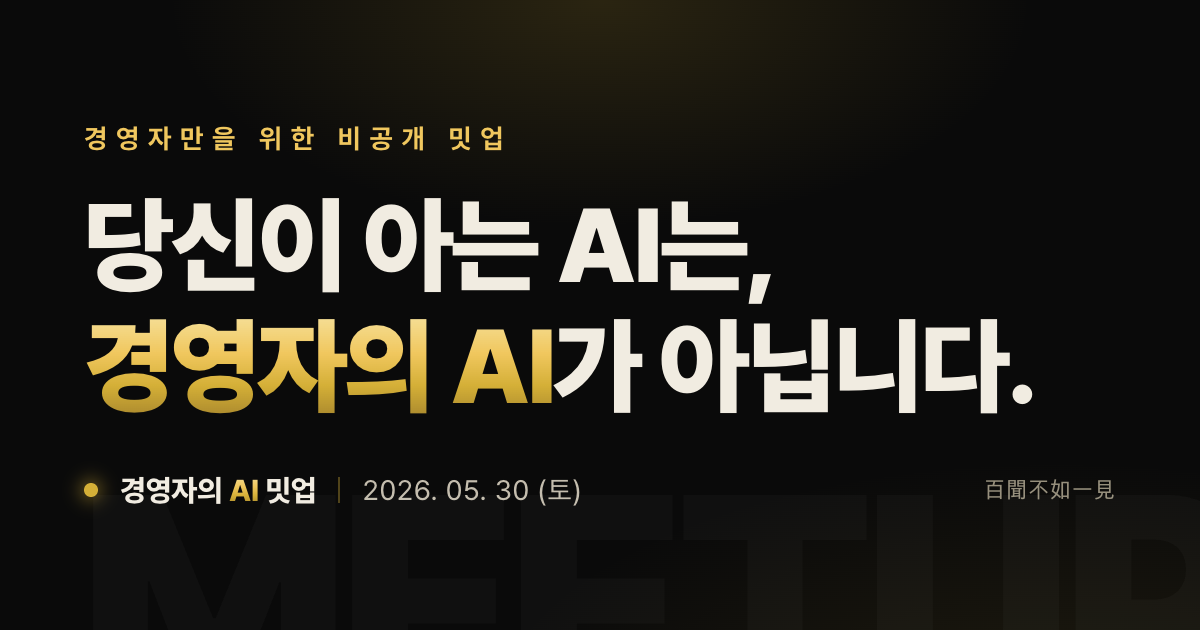
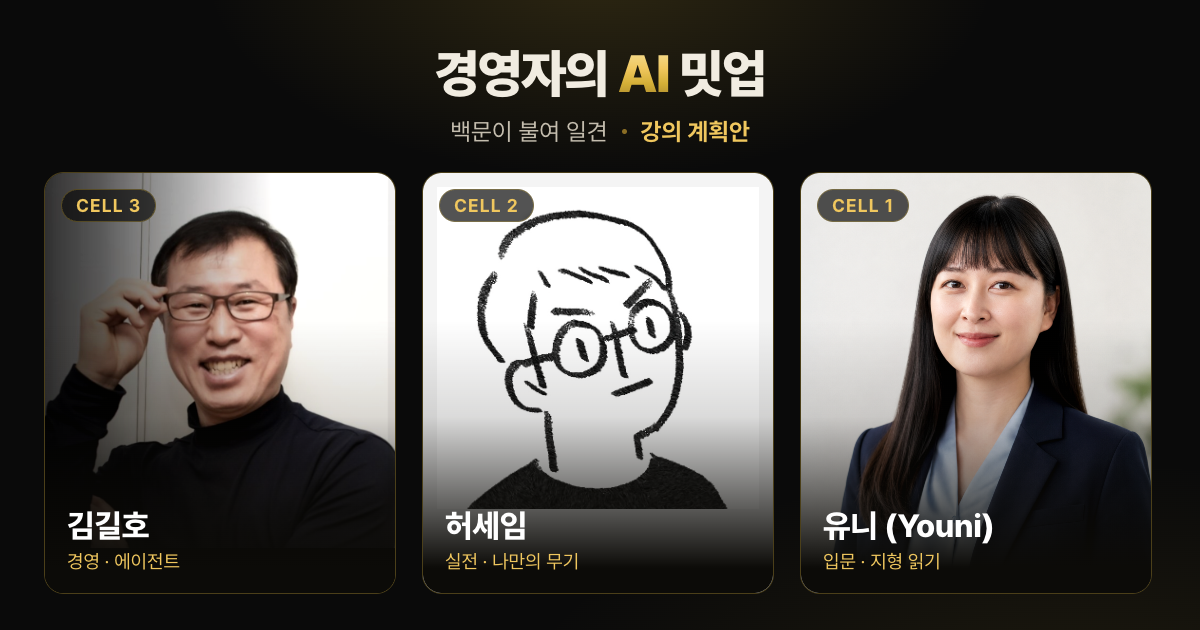
OG 썸네일을 강사 3인 카드로 변경 + 공유 제목에 강의계획안 표기

diff --git a/app/layout.tsx b/app/layout.tsx
@@ -8,11 +8,15 @@ const geistMono = Geist_Mono({
 });
 
 const OG_IMAGE = {
-  url: "/og.png",
+  url: "/og.png?v=2",
   width: 1200,
   height: 630,
-  alt: "경영자의 AI 밋업 — 당신이 아는 AI는, 경영자의 AI가 아닙니다.",
+  alt: "경영자의 AI 밋업 · 백문이 불여 일견 · 강의 계획안 — 김길호 · 허세임 · 유니",
 };
+
+const SHARE_TITLE = "경영자의 AI 밋업 · 백문이 불여 일견 · 강의 계획안";
+const SHARE_DESC =
+  "경영자만을 위한 비공개 AI 밋업 — 김길호 · 허세임 · 유니, 3개 셀의 하루 강의 계획안.";
 
 export const metadata: Metadata = {
   metadataBase: new URL("https://meetup-landing.vercel.app"),
@@ -20,9 +24,8 @@ export const metadata: Metadata = {
   description:
     "당신이 아는 AI는, 경영자의 AI가 아닙니다. 2026.05.30, 하루 만에 직접 보세요 — 경영자를 위한 비공개 AI 밋업.",
   openGraph: {
-    title: "경영자의 AI 밋업 | 백문이 불여 일견",
-    description:
-      "실무자의 AI와 경영자의 AI는 다릅니다. 조직 재설계와 올바른 AX 설계의 눈을 갖는 하루.",
+    title: SHARE_TITLE,
+    description: SHARE_DESC,
     url: "https://meetup-landing.vercel.app",
     siteName: "경영자의 AI 밋업",
     type: "website",
@@ -31,9 +34,8 @@ export const metadata: Metadata = {
   },
   twitter: {
     card: "summary_large_image",
-    title: "경영자의 AI 밋업 | 백문이 불여 일견",
-    description:
-      "당신이 아는 AI는, 경영자의 AI가 아닙니다. 2026.05.30, 비공개 AI 밋업.",
+    title: SHARE_TITLE,
+    description: SHARE_DESC,
     images: [OG_IMAGE.url],
   },
 };
